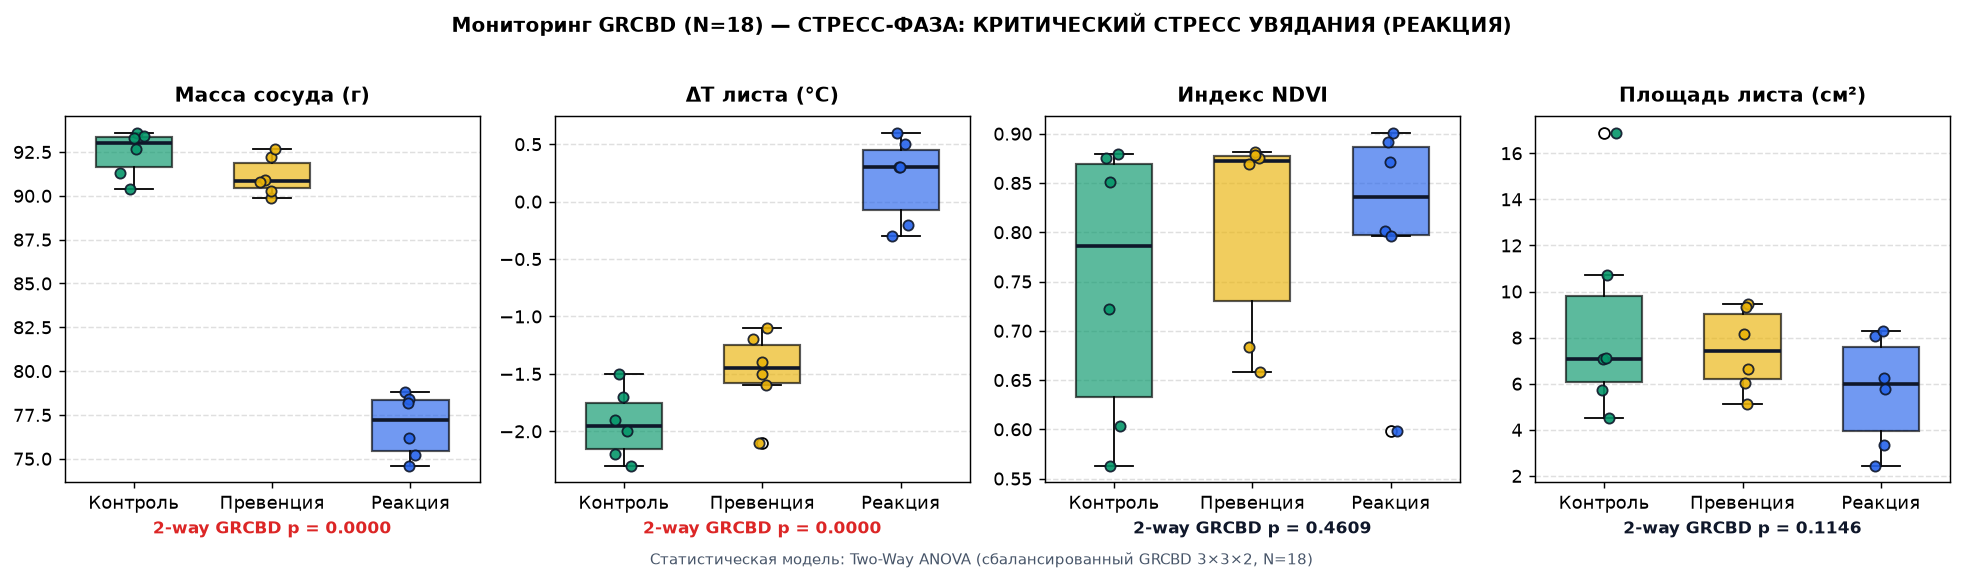
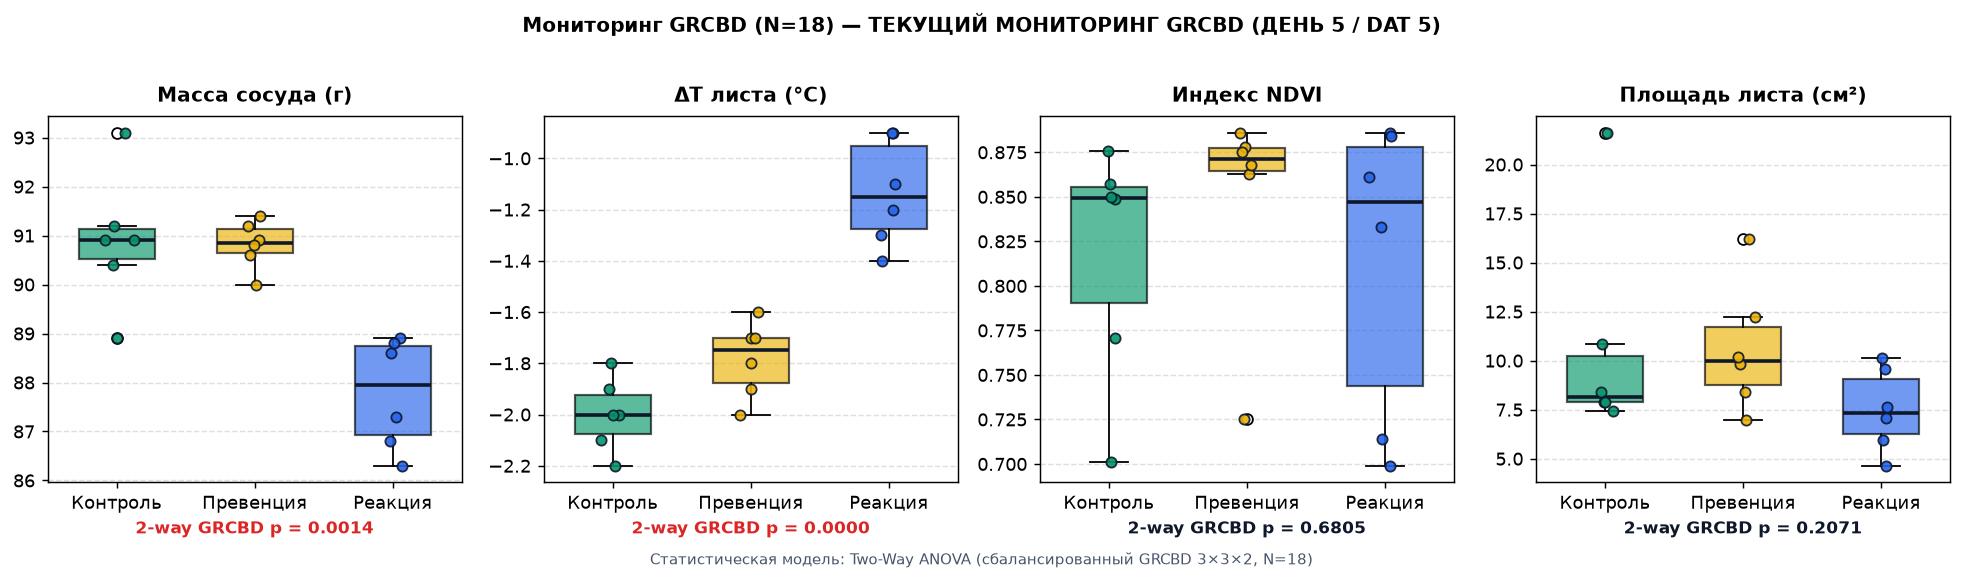
data(wave2): add Day 5 (2026-11-14, DAT 5) measurements, 38 images, ANOVA report & post-rescue relaxation
- Measurements: added 19 rows (K1-K6, R1-R6, P1-P6, X0) with unified T_Air = 25.3 C, shifted time window 17:51-18:16, validated VPD = 1.37-1.69 kPa.
- Biometrics & Physiology:
  * Reaction (R) post-rescue relaxation: leaf temperature cooled from +0.20 C to -1.13 C, mean turgor rose from 2.17 to 3.00, soil moisture recovered to 76.8% (1.958 V).
  * Physiological hysteresis / stress lag: despite rewatering, Reaction Delta_T remains +0.87 C warmer than Control (-2.00 C) and +0.65 C warmer than Prevention (-1.78 C), p = 0.0012, confirming stomatic delay post-wilting.
  * Prevention (P) maintains complete stability: Delta_T = -1.78 C, mass = 90.8 g (vs Control 90.9 g), soil moisture 79.2% (1.954 V), turgor 4.0.
  * Lysimeter X0 daily evaporation: 4.2 g (dose 4.2 ml), turgor marked as '--'.
- Verification: 228/228 image links fully decoded and valid; 154/154 pytest tests passed.

diff --git a/docs/wave2/ANOVA_LATEST_REPORT.md b/docs/wave2/ANOVA_LATEST_REPORT.md
@@ -1,11 +1,11 @@
 # 📊 СТАТИСТИЧЕСКИЙ ОТЧЕТ МОНИТОРИНГА ВОЛНЫ 2
-**Статус сессии:** 🔵 СТРЕСС-ФАЗА: КРИТИЧЕСКИЙ СТРЕСС УВЯДАНИЯ (РЕАКЦИЯ)  
+**Статус сессии:** 📊 ТЕКУЩИЙ МОНИТОРИНГ GRCBD (ДЕНЬ 5 / DAT 5)  
 **Объем выборки:** N = 18 уникальных сосудов GRCBD (план: 3 когорты × 3 блока × 2 повторности)  
 **Режим статистической модели:** Two-Way ANOVA (сбалансированный GRCBD 3×3×2, N=18)  
-**Вердикт алгоритма:** Триггер увядания сработал по кворуму (5/6 растений с тургором ≤ 2; средний балл Реакции 2.17 против контроля 4.0). Реакционный полив активирован!  
+**Вердикт алгоритма:** Замер 18/18 сосудов выполнен (оценок тургора: 18/18; масса p=0.0014, ΔT p=0.0). Критерии стресс-триггеров не достигнуты; мониторинг продолжается.  
 
 > [!NOTE]
-> Во входной выборке обнаружено и свёрнуто 72 дублирующих записей `pot_id` (использована последняя запись по каждому сосуду).
+> Во входной выборке обнаружено и свёрнуто 90 дублирующих записей `pot_id` (использована последняя запись по каждому сосуду).
 
 ---
 
@@ -13,11 +13,11 @@
 
 | Физиологический параметр | Режим модели | Контроль (M ± SE) | Превенция (M ± SE) | Реакция (M ± SE) | Когорта (F) | p (когорта) | Блок (F) | p (блок) | НСР₀₅ |
 | :--- | :--- | :---: | :---: | :---: | :---: | :---: | :---: | :---: | :---: |
-| **Масса сосуда (г)** | Two-Way ANOVA (GRCBD 3×3×2) | 92.45 ± 0.53 | 91.13 ± 0.45 | 76.9 ± 0.74 | 198.916 | **0.0** | 0.418 | 0.6706 | 1.956 |
-| **ΔT листа (°C)** | Two-Way ANOVA (GRCBD 3×3×2) | -1.93 ± 0.12 | -1.48 ± 0.14 | 0.2 ± 0.15 | 65.344 | **0.0** | 0.722 | 0.5117 | 0.445 |
-| **Индекс NDVI** | Two-Way ANOVA (GRCBD 3×3×2) | 0.75 ± 0.06 | 0.81 ± 0.04 | 0.81 ± 0.05 | 0.845 | **0.4609** | 6.196 | 0.0203 | 0.12 |
-| **Площадь листа (см²)** | Two-Way ANOVA (GRCBD 3×3×2) | 8.67 ± 1.85 | 7.45 ± 0.73 | 5.68 ± 0.98 | 2.783 | **0.1146** | 2.926 | 0.105 | 2.884 |
-| **Балл тургора (1–4)** | Two-Way ANOVA (GRCBD 3×3×2) | 4.0 ± 0.0 | 4.0 ± 0.0 | 2.17 ± 0.17 | 121.0 | **0.0** | 1.0 | 0.4053 | 0.308 |
+| **Масса сосуда (г)** | Two-Way ANOVA (GRCBD 3×3×2) | 90.9 ± 0.55 | 90.82 ± 0.2 | 87.78 ± 0.46 | 14.873 | **0.0014** | 1.073 | 0.382 | 1.473 |
+| **ΔT листа (°C)** | Two-Way ANOVA (GRCBD 3×3×2) | -2.0 ± 0.06 | -1.78 ± 0.06 | -1.13 ± 0.08 | 129.235 | **0.0** | 3.765 | 0.0649 | 0.127 |
+| **Индекс NDVI** | Two-Way ANOVA (GRCBD 3×3×2) | 0.82 ± 0.03 | 0.85 ± 0.03 | 0.81 ± 0.03 | 0.402 | **0.6805** | 1.813 | 0.2179 | 0.1 |
+| **Площадь листа (см²)** | Two-Way ANOVA (GRCBD 3×3×2) | 10.69 ± 2.24 | 10.63 ± 1.33 | 7.5 ± 0.85 | 1.885 | **0.2071** | 1.513 | 0.2714 | 4.256 |
+| **Балл тургора (1–4)** | Two-Way ANOVA (GRCBD 3×3×2) | 4.0 ± 0.0 | 4.0 ± 0.0 | 3.0 ± 0.26 | 18.0 | **0.0007** | 1.5 | 0.274 | 0.435 |
 
 ---
 
